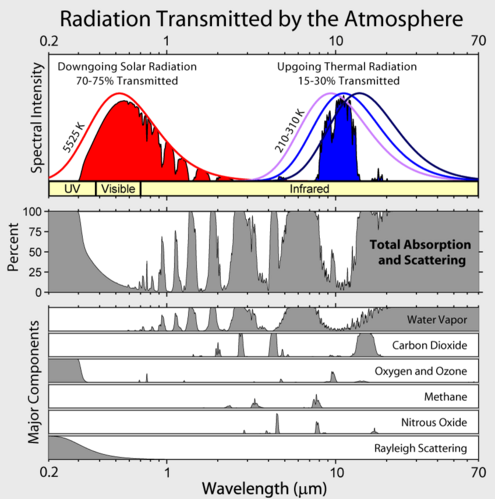
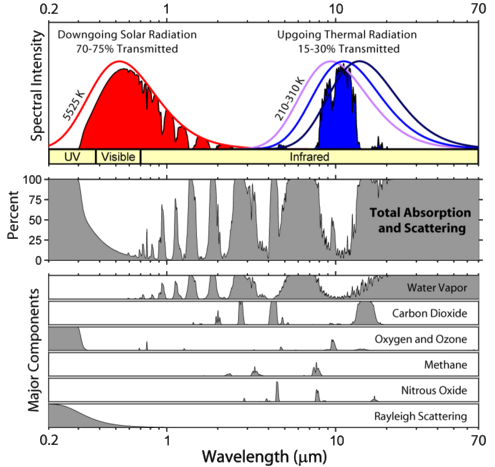
update and caption figs

diff --git a/book/1-6_earth_energy/l2/l2.md b/book/1-6_earth_energy/l2/l2.md
@@ -19,20 +19,40 @@ About 46% is absorbed by the surface.
 
 Our planet also re-radiates energy but this energy is at a longer wavelength than what we receive from the sun.
 
-![figure1](figures/figure1.png)
+```{figure} ./figures/figure1.png
+---
+name: radiation_cycle
+figclass: margin-caption
+---
+A schematic of the earth's energy cycle. Incoming solar radition is absorbed and reflected.
+The earth itself also emits longer wave radiation in the infra-red band.
+```
 
 What are each of these things happening on Earth’s surface? The heating of Earth’s surface drives physical changes which allows heat (in the form of radiation) to be released into the atmosphere.
 
 For example, when water changes state from liquid to vapor during evaporation, this is called the latent heat flux, while when there is a temperature change at the surface but no change in state, this energy is released to the atmosphere as the sensible heat flux. You will have learned about latent heat and sensible heat in GCSE Physics.
 
-![figure2](figures/figure2.png)
+```{figure} ./figures/figure2.png
+---
+name: radiation_transmitted
+figclass: margin-caption
+---
+The raditation transmitted by the atmosphere.
+```
 
 Different gases in our atmosphere are good at absorbing radiation or releasing radiation of different wavelengths. You have probably seen the figure on the right, it shows the downward transmission of solar radiation and the upgoing longwave radiation. Gases in our atmosphere both absorb wavelengths of radiation that are short (as in those coming from the sun) and long (as those emitted from the Earth). Different gases behave differently, and later this term you will learn what in the physics of the molecule makes a good greenhouse gas.
 
 The balance of energy coming in from the sun and then interacting with the surface of the planet, causing both changes of state and changes in local temperature, and the transmission of this energy through the atmosphere, this drives the hydrological cycle, the movement of heat, air, water, and the carbon in that air and water. What the Earth does with the energy it receives, and the impact that this has on the climate system, is the focus of this course.
 
-![figure3](figures/figure3.png)
+```{figure} ./figures/figure3.png
+---
+name: radiation_balance
+figclass: margin-caption
+---
+The balance of incoming and outgoing radiation plotted against latitude.
+The surplus of radiation at the lower latitudes is transported north and south to higher latitudes.
+```
 
-The sun doesn’t heat the Earth’s surface evenly, but the reradiation of energy from Earth’ surface is more even. This leads to global energy imbalance that drives the transfer of water and air.
+The sun doesn’t heat the Earth’s surface evenly, but the re-radiation of energy from Earth’ surface is more even. This leads to global energy imbalance that drives the transfer of water and air.
 
 The heat is transferred when warm air rises and moves towards colder regions, and when warm water is moved in the oceans from the tropics (warm) to the poles (cold). We can quantify the energy transfer and parse it into which fraction is transported by the air and which is transported by the water.
